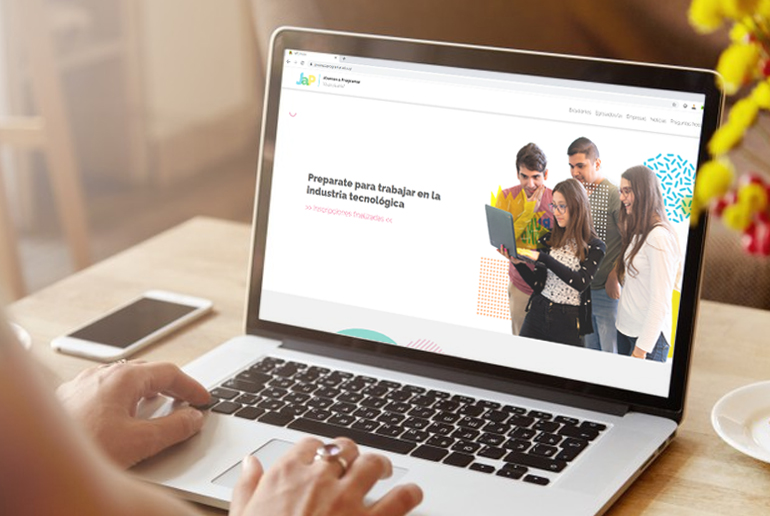
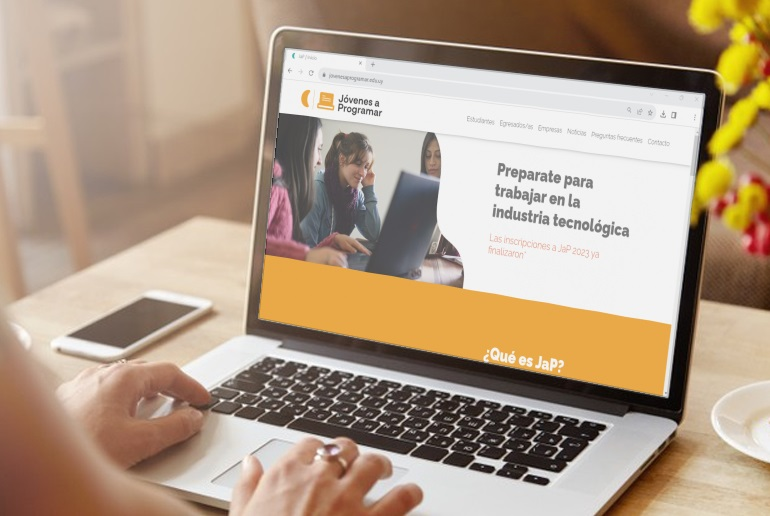
Update to 2023 version

Changed region(s): [[0.3117, 0.093, 0.9351, 0.7752], [0.9039, 0.2481, 0.9351, 0.2791]]

diff --git a/sell.html b/sell.html
@@ -172,8 +172,7 @@
       <p class="float-end">
         <a href="#">Volver arriba</a>
       </p>
-      <p>Este sitio forma parte de <a href="https://jovenesaprogramar.edu.uy/" target="_blank">Jovenes a Programar</a> -
-        2022</p>
+      <p>Este sitio forma parte de <a href="https://jovenesaprogramar.edu.uy/" target="_blank">Jovenes a Programar</a></p>
       <p>Clickea <a target="_blank" href="Letra.pdf">aquí</a> para descargar la letra del obligatorio.</p>
     </div>
   </footer>

diff --git a/cart.html b/cart.html
@@ -47,8 +47,7 @@
       <p class="float-end">
         <a href="#">Volver arriba</a>
       </p>
-      <p>Este sitio forma parte de <a href="https://jovenesaprogramar.edu.uy/" target="_blank">Jovenes a Programar</a> -
-        2022</p>
+      <p>Este sitio forma parte de <a href="https://jovenesaprogramar.edu.uy/" target="_blank">Jovenes a Programar</a></p>
       <p>Clickea <a target="_blank" href="Letra.pdf">aquí</a> para descargar la letra del obligatorio.</p>
     </div>
   </footer>

diff --git a/categories.html b/categories.html
@@ -86,8 +86,7 @@
       <p class="float-end">
         <a href="#">Volver arriba</a>
       </p>
-      <p>Este sitio forma parte de <a href="https://jovenesaprogramar.edu.uy/" target="_blank">Jovenes a Programar</a> -
-        2022</p>
+      <p>Este sitio forma parte de <a href="https://jovenesaprogramar.edu.uy/" target="_blank">Jovenes a Programar</a></p>
       <p>Clickea <a target="_blank" href="Letra.pdf">aquí</a> para descargar la letra del obligatorio.</p>
     </div>
   </footer>

diff --git a/index.html b/index.html
@@ -82,8 +82,7 @@
       <p class="float-end">
         <a href="#">Volver arriba</a>
       </p>
-      <p>Este sitio forma parte de <a href="https://jovenesaprogramar.edu.uy/" target="_blank">Jovenes a Programar</a> -
-        2022</p>
+      <p>Este sitio forma parte de <a href="https://jovenesaprogramar.edu.uy/" target="_blank">Jovenes a Programar</a></p>
       <p>Clickea <a target="_blank" href="Letra.pdf">aquí</a> para descargar la letra del obligatorio.</p>
     </div>
   </footer>

diff --git a/my-profile.html b/my-profile.html
@@ -62,8 +62,7 @@
       <p class="float-end">
         <a href="#">Volver arriba</a>
       </p>
-      <p>Este sitio forma parte de <a href="https://jovenesaprogramar.edu.uy/" target="_blank">Jovenes a Programar</a> -
-        2022</p>
+      <p>Este sitio forma parte de <a href="https://jovenesaprogramar.edu.uy/" target="_blank">Jovenes a Programar</a></p>
       <p>Clickea <a target="_blank" href="Letra.pdf">aquí</a> para descargar la letra del obligatorio.</p>
     </div>
   </footer>

diff --git a/product-info.html b/product-info.html
@@ -48,8 +48,7 @@
       <p class="float-end">
         <a href="#">Volver arriba</a>
       </p>
-      <p>Este sitio forma parte de <a href="https://jovenesaprogramar.edu.uy/" target="_blank">Jovenes a Programar</a> -
-        2022</p>
+      <p>Este sitio forma parte de <a href="https://jovenesaprogramar.edu.uy/" target="_blank">Jovenes a Programar</a></p>
       <p>Clickea <a target="_blank" href="Letra.pdf">aquí</a> para descargar la letra del obligatorio.</p>
     </div>
   </footer>

diff --git a/products.html b/products.html
@@ -48,8 +48,7 @@
       <p class="float-end">
         <a href="#">Volver arriba</a>
       </p>
-      <p>Este sitio forma parte de <a href="https://jovenesaprogramar.edu.uy/" target="_blank">Jovenes a Programar</a> -
-        2022</p>
+      <p>Este sitio forma parte de <a href="https://jovenesaprogramar.edu.uy/" target="_blank">Jovenes a Programar</a></p>
       <p>Clickea <a target="_blank" href="Letra.pdf">aquí</a> para descargar la letra del obligatorio.</p>
     </div>
   </footer>

diff --git a/login.html b/login.html
@@ -26,8 +26,7 @@
   </main>
   <footer class="text-muted">
     <div class="container">
-      <p>Este sitio forma parte de <a href="https://jovenesaprogramar.edu.uy/" target="_blank">Jovenes a Programar</a> -
-        2022</p>
+      <p>Este sitio forma parte de <a href="https://jovenesaprogramar.edu.uy/" target="_blank">Jovenes a Programar</a></p>
       <p>Clickea <a target="_blank" href="Letra.pdf">aquí</a> para descargar la letra del obligatorio.</p>
     </div>
   </footer>

diff --git a/css/styles.css b/css/styles.css
@@ -2,7 +2,7 @@
 .card-body,
 .container,
 .site-header {
-  font-family: 'Raleway', serif !important;
+  font-family: 'Verdana', serif !important;
 }
 
 .jumbotron .display-4 {
